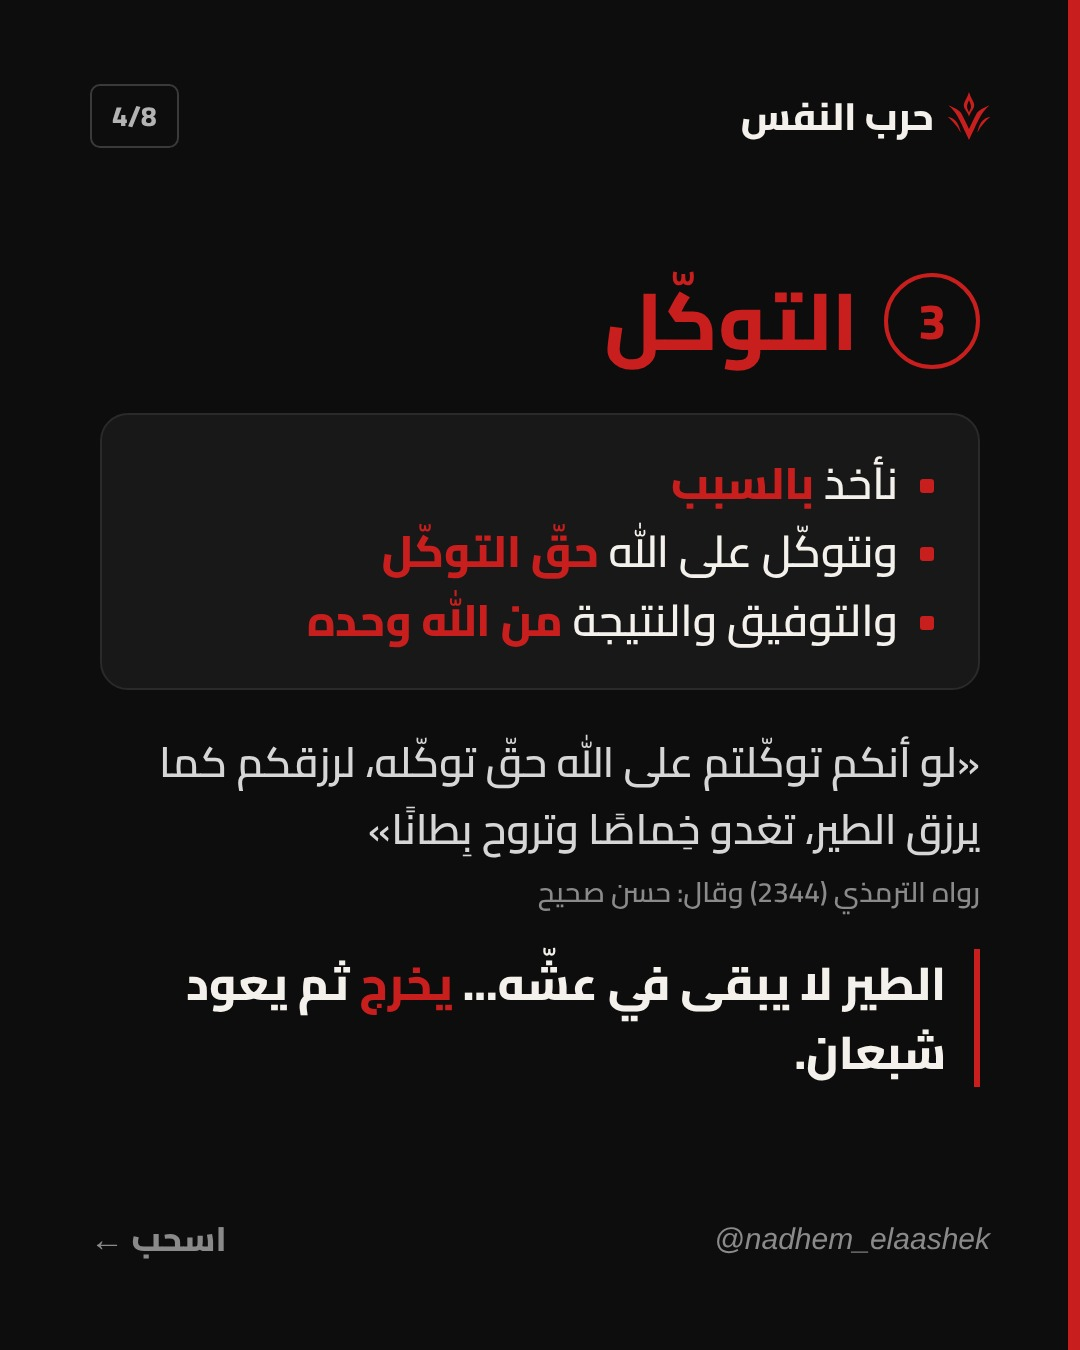
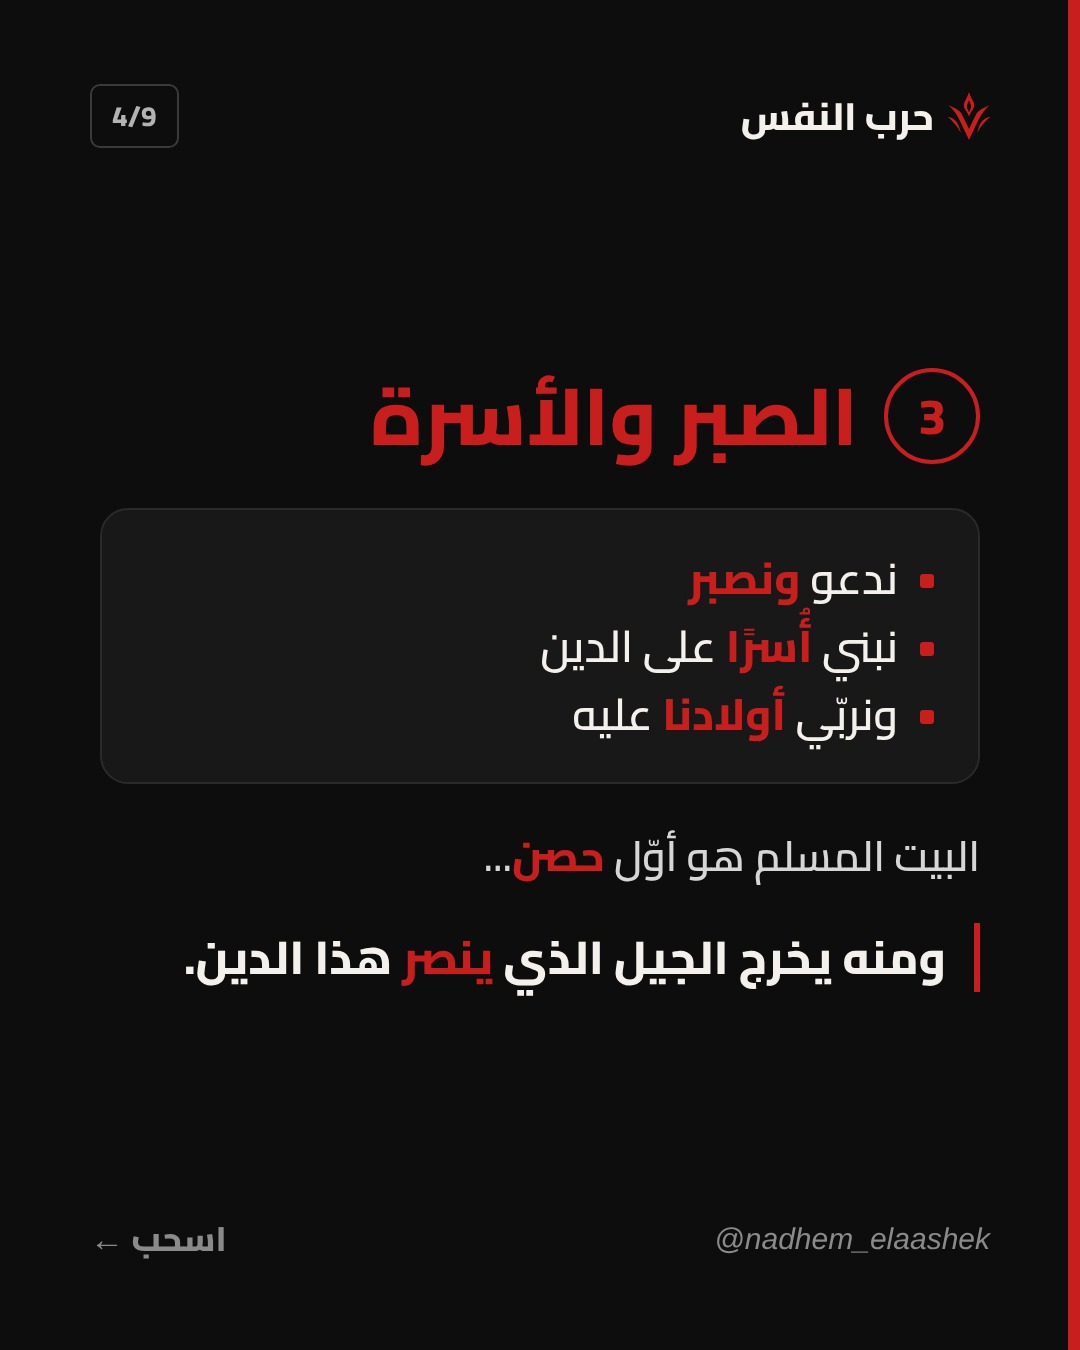
Carousel nusra v2: responsibility hook, 9 slides
Claude-Session: https://claude.ai/code/session_01Y9GV4BYF4VbJnjGJPUvVEt

Changed region(s): [[0.1528, 0.1867, 0.9167, 0.8089]]

diff --git a/carousels/nusra/index.html b/carousels/nusra/index.html
@@ -1,16 +1,21 @@
 <!doctype html><html lang="ar" dir="rtl"><head><meta charset="utf-8"><meta name="viewport" content="width=device-width,initial-scale=1"><title>إن تنصروا الله</title>
 <style>body{margin:0;background:#0D0D0D;color:#F4F1EC;font-family:system-ui,sans-serif;padding:16px}h1{font-size:20px}p{color:#aaa;font-size:14px}img{width:100%;max-width:540px;display:block;margin:0 auto 14px;border-radius:10px}textarea{width:100%;max-width:540px;display:block;margin:0 auto;height:200px;background:#181818;color:#F4F1EC;border:1px solid #333;border-radius:8px;padding:10px;font-size:15px;box-sizing:border-box}button{display:block;margin:10px auto 30px;background:#C81E1E;color:#fff;border:0;border-radius:8px;padding:12px 24px;font-size:16px}</style></head><body>
-<h1>كاروسيل «إن تنصروا الله» · 8 شرائح</h1><p>اضغط مطوّلًا على كل صورة ← «حفظ في الصور».</p>
-<img src="01.jpg"><img src="02.jpg"><img src="03.jpg"><img src="04.jpg"><img src="05.jpg"><img src="06.jpg"><img src="07.jpg"><img src="08.jpg">
-<textarea id="t">شقّ الله البحر لموسى بضربة عصا، وجعل النار بردًا وسلامًا على إبراهيم، وأحيا يونس في بطن الحوت.
-ربّنا عظيم، ولم يطلب منّا إلا صدق النيّة والأخذ بالسبب، والتوفيق منه وحده.
+<h1>كاروسيل «إن تنصروا الله» · 9 شرائح</h1><p>اضغط مطوّلًا على كل صورة ← «حفظ في الصور».</p>
+<img src="01.jpg"><img src="02.jpg"><img src="03.jpg"><img src="04.jpg"><img src="05.jpg"><img src="06.jpg"><img src="07.jpg"><img src="08.jpg"><img src="09.jpg">
+<textarea id="t">مسلم؟ ليس هدفك في الحياة أن تعيش لنفسك فقط. راجع نفسك.
 
-نحارب لديننا وبلادنا بالعلم، ونطبّقه على أنفسنا، ونبتعد عن الشهوات، ونربّي أبناءنا عليه.
-قد لا نرى النصر بأعيننا، لكنّنا نمهّد له. كن الشعلة، وسلّم المشعل لمن بعدك.
+إن لم ننصر ديننا نحن الشباب، فمن ينصره؟ وإن لم ننهض ببلادنا، فمن ينهض بها؟
+
+١. العلم والدعوة: نتعلّم ديننا، ونطبّقه على أنفسنا، وندعو إليه بالحكمة.
+٢. الصبر والأسرة: ندعو ونصبر، ونربّي أولادنا على الدين.
+٣. النهوض لا الهروب: لا نترك بلادنا هربًا منها وكرهًا لها، بل نتحمّل المسؤولية ونصبر على قسوة الظروف لننهض بها.
+٤. تطوير الذات: نطوّر أنفسنا ونبتعد عن الشهوات.
+٥. الله قادر: طلب منّا سببًا ولو بسيطًا، والتوفيق منه وحده.
+٦. وإن لم نرَ النصر بأعيننا، فلنمهّد له، ونربّي أولادنا على هذه الدعوة ليعيشوه هم.
 
 ﴿إِن تَنصُرُوا اللَّهَ يَنصُرْكُمْ وَيُثَبِّتْ أَقْدَامَكُمْ﴾
 
-النصرة تبدأ من نفسك. اكتب «حرب» وانضمّ إلى تحدّي حرب النفس مجانًا 🔥
+اكتب «حرب» وابدأ اليوم مع تحدّي حرب النفس مجانًا 🔥
 
 #حرب_النفس #اصنع_من_الألم_قوة</textarea>
 <button onclick="navigator.clipboard.writeText(document.getElementById('t').value);this.textContent='تم النسخ ✓'">نسخ الوصف</button></body></html>
